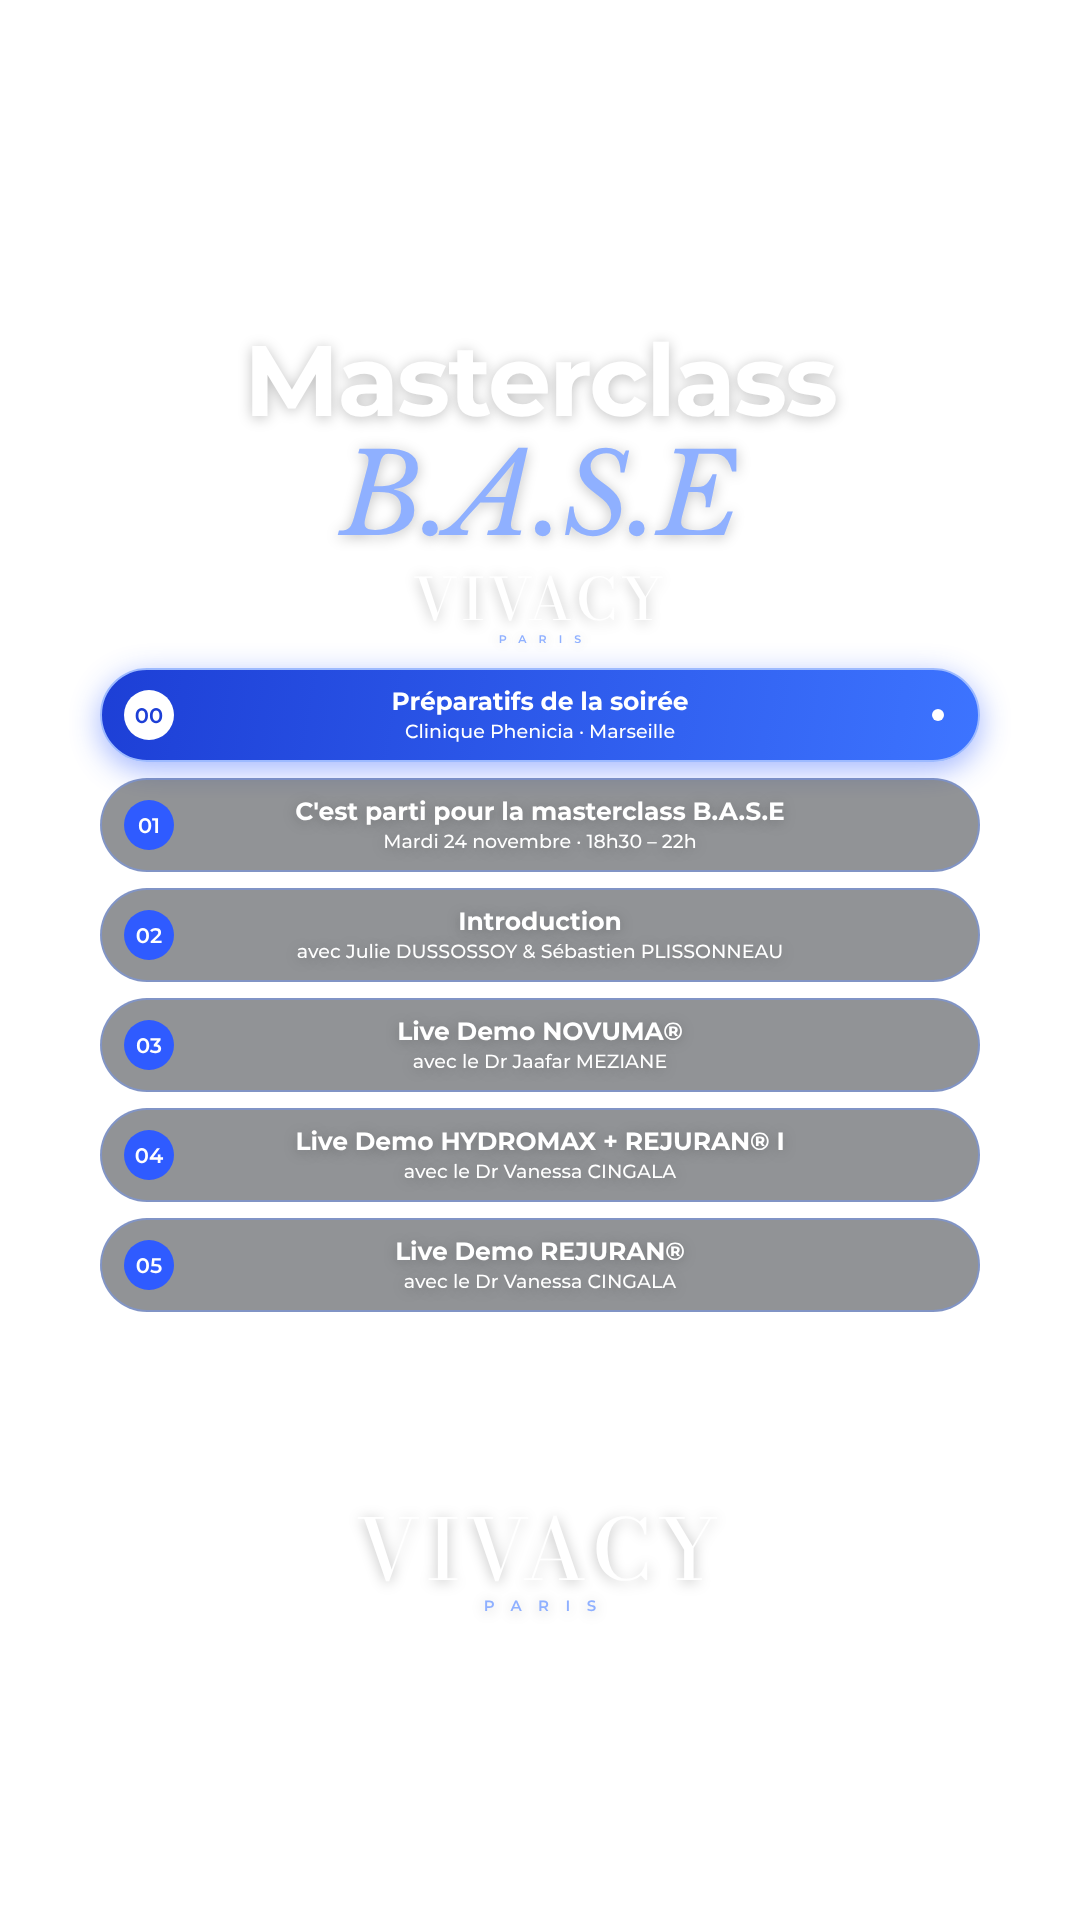
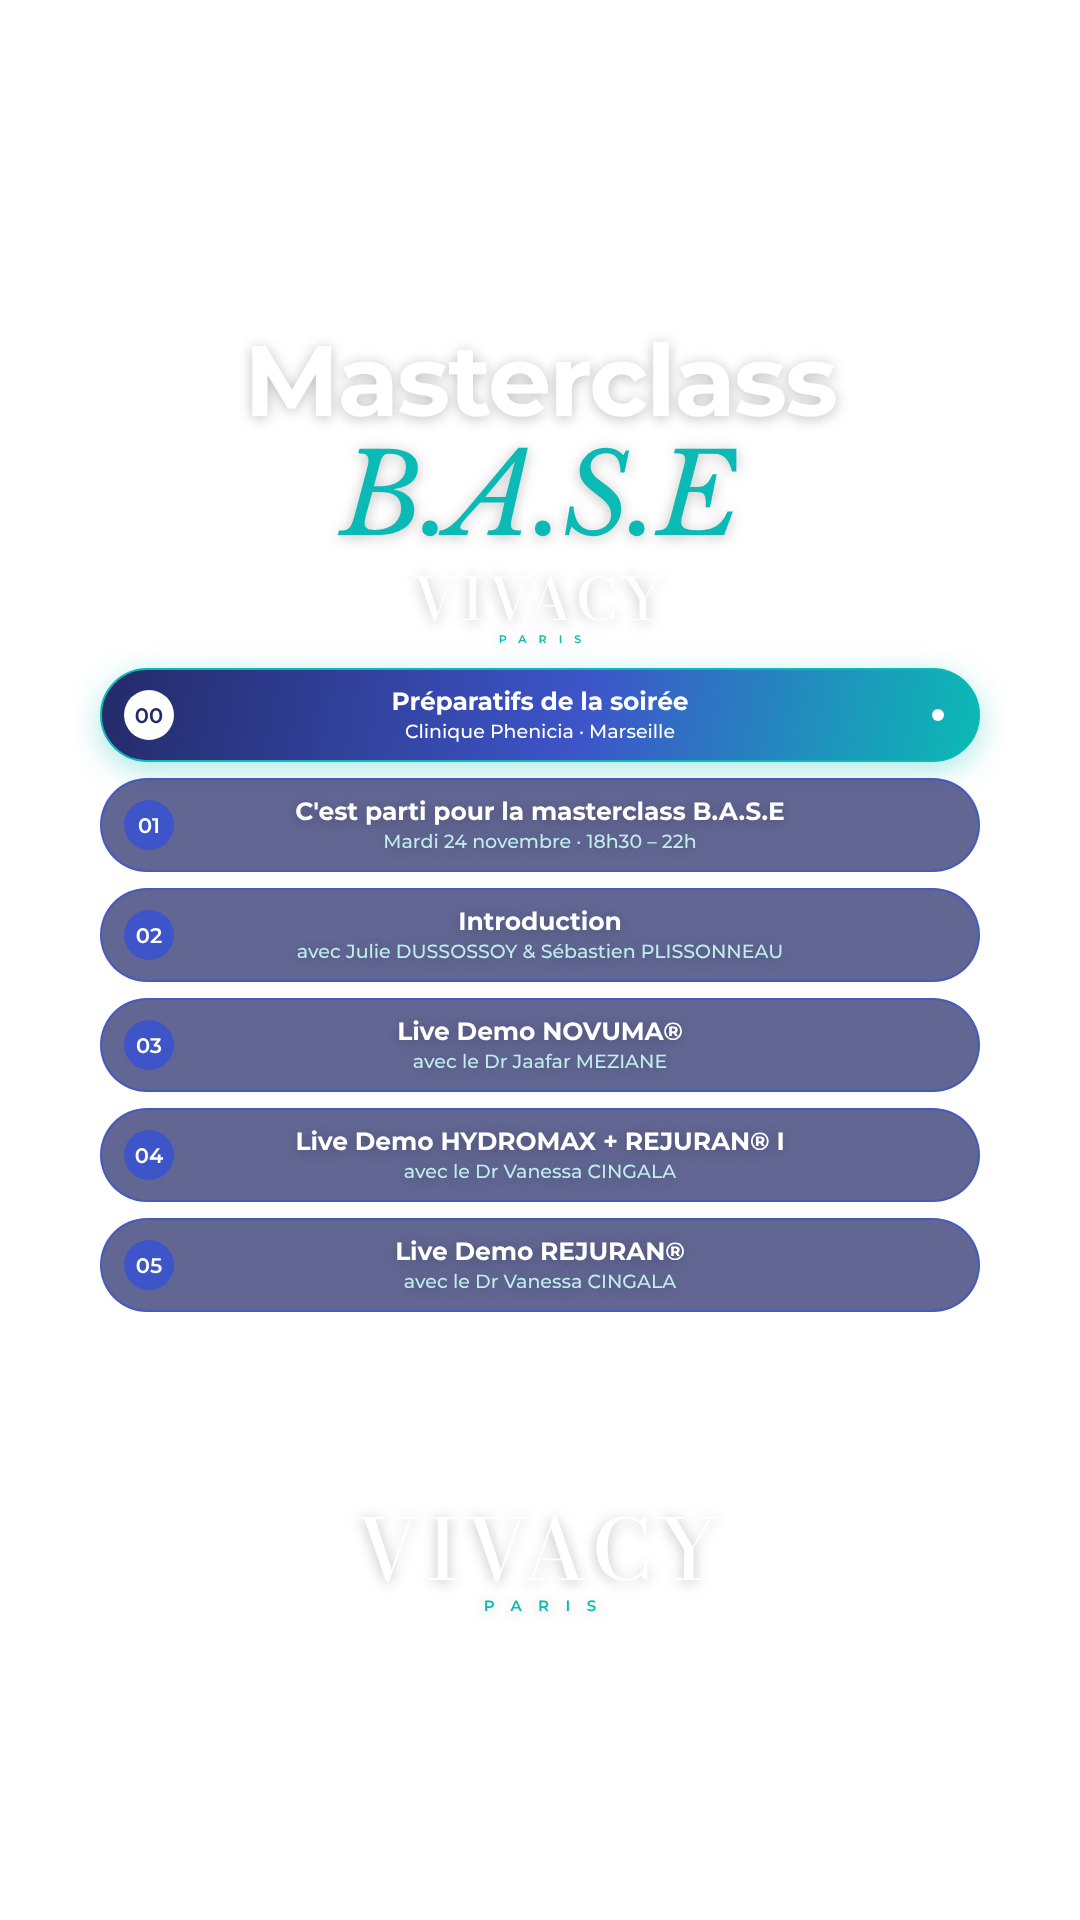
Use programme blue palette on Marseille chapter overlays
Claude-Session: https://claude.ai/code/session_01H2FbvPkFYuJqWfUGTNFBXR

Changed region(s): [[0.0917, 0.3438, 0.9167, 0.6875], [0.3056, 0.2188, 0.7028, 0.2812]]

diff --git a/stories/vivacy/chapitres-marseille.html b/stories/vivacy/chapitres-marseille.html
@@ -28,15 +28,18 @@
   .foot { position:absolute; top:1490px; left:0; right:0; text-align:center; }
   .foot .v { font-size:84px; }
   .foot .p { font-size:15px; }
-  /* touches de bleu */
-  .base { color:#8fb0ff; }
-  .head .logo .p, .foot .p { color:#8fb0ff; }
-  .pill { border:2px solid rgba(110,150,255,.45); }
-  .pill .n { left:22px; width:50px; height:50px; border-radius:50%; background:#2f5bff; color:#fff;
+  /* palette du programme Vivacy : bleu foncé, bleu clair, bleu-vert */
+  :root { --fonce:#242b69; --clair:#3d55c9; --vert:#0bbab4; }
+  .base { color:var(--vert); }
+  .head .logo .p, .foot .p { color:var(--vert); }
+  .pill { background:rgba(36,43,105,.72); border:2px solid rgba(61,85,201,.75); }
+  .pill .n { left:22px; width:50px; height:50px; border-radius:50%; background:var(--clair); color:#fff;
              display:flex; align-items:center; justify-content:center; text-shadow:none; }
-  .pill.on { background:linear-gradient(100deg,#1d3fd6,#3d74ff); color:#fff; border-color:#9dbaff;
-             box-shadow:0 8px 30px rgba(47,91,255,.45); }
-  .pill.on .n { background:#fff; color:#1d3fd6; }
+  .pill .s { color:#bfeeed; }
+  .pill.on { background:linear-gradient(100deg,var(--fonce) 0%,var(--clair) 55%,var(--vert) 100%); color:#fff;
+             border-color:var(--vert); box-shadow:0 8px 30px rgba(11,186,180,.35); }
+  .pill.on .n { background:#fff; color:var(--fonce); }
+  .pill.on .s { color:#fff; }
   .pill.on::after { background:#fff; }
 </style>
 </head>
